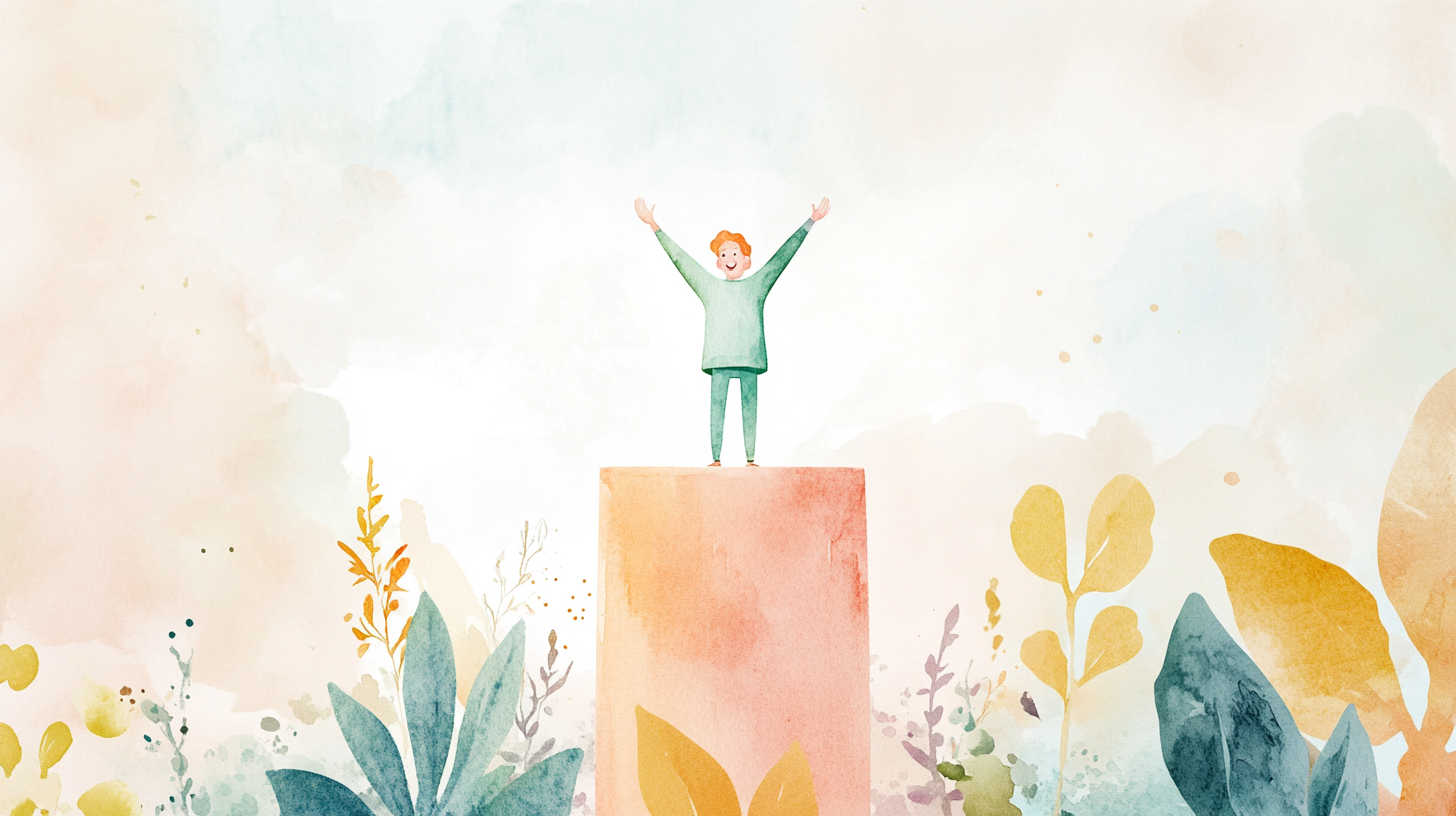
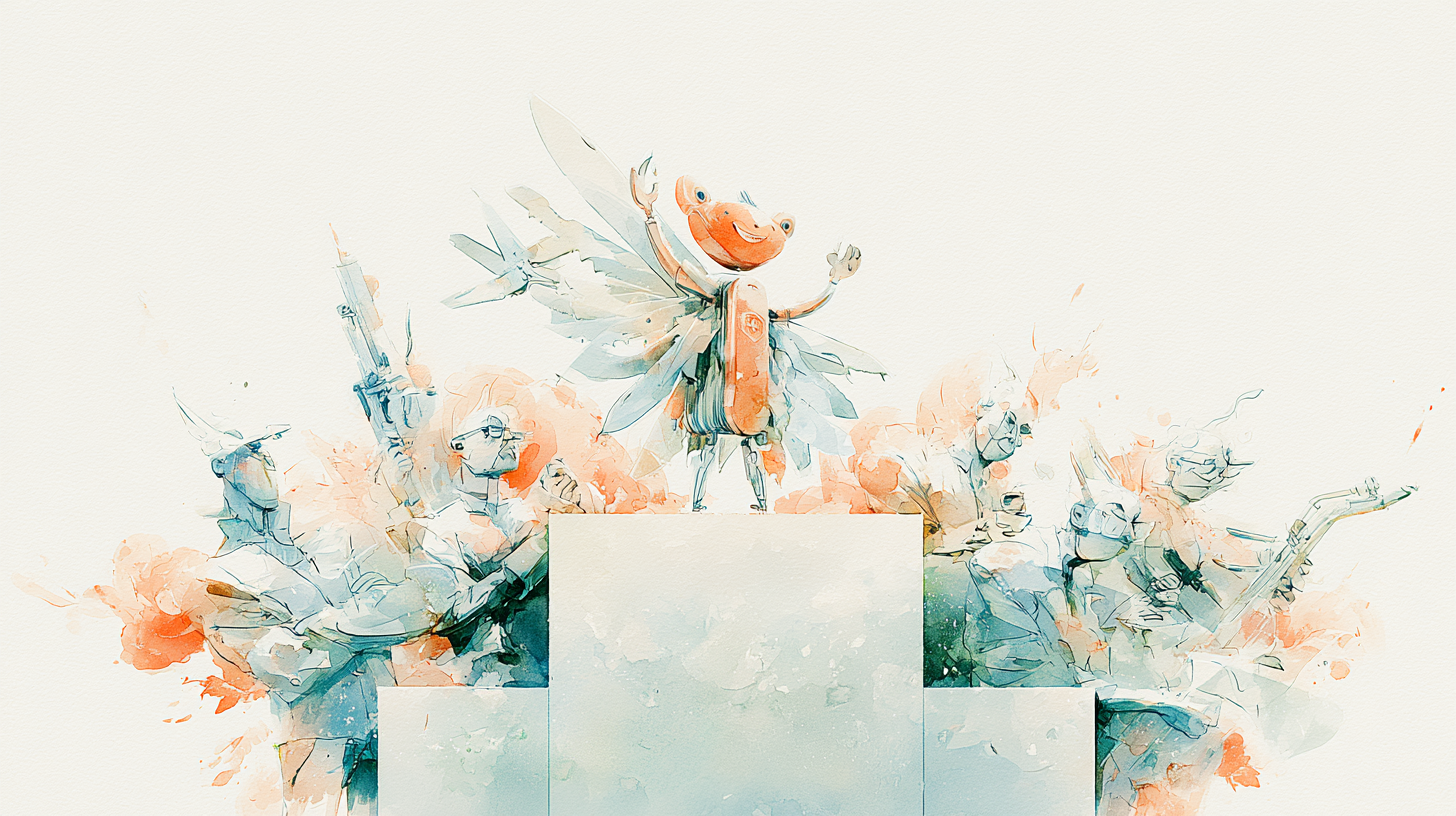
Add floating greeting; refresh buzz-online and generalists illustrations
- Fixed bottom-center "Hi there 👋" card with grey border and drop shadow
- Swap in new swarm/speech-bubble image for buzz-online
- Swap in new swiss-army-knife image for generalists

diff --git a/assets/main.scss b/assets/main.scss
@@ -215,6 +215,21 @@ body {
   max-width: 66%;
 }
 
+.floating-greeting {
+  position: fixed;
+  bottom: 16px;
+  left: 50%;
+  transform: translateX(-50%);
+  z-index: 1000;
+  background: #fff;
+  border: 3px solid grey;
+  border-radius: 4px;
+  padding: 6px 14px;
+  font-family: sans-serif;
+  font-size: 13px;
+  box-shadow: 0 4px 12px rgba(0, 0, 0, 0.2);
+}
+
 .portfolio-image-row.left {
   justify-content: flex-start;
   margin-bottom: 32px;

diff --git a/_layouts/default.html b/_layouts/default.html
@@ -84,6 +84,8 @@
 
     <!-- {%- include footer.html -%} -->
 
+    <div class="floating-greeting">Hi there 👋</div>
+
   </body>
 
 </html>